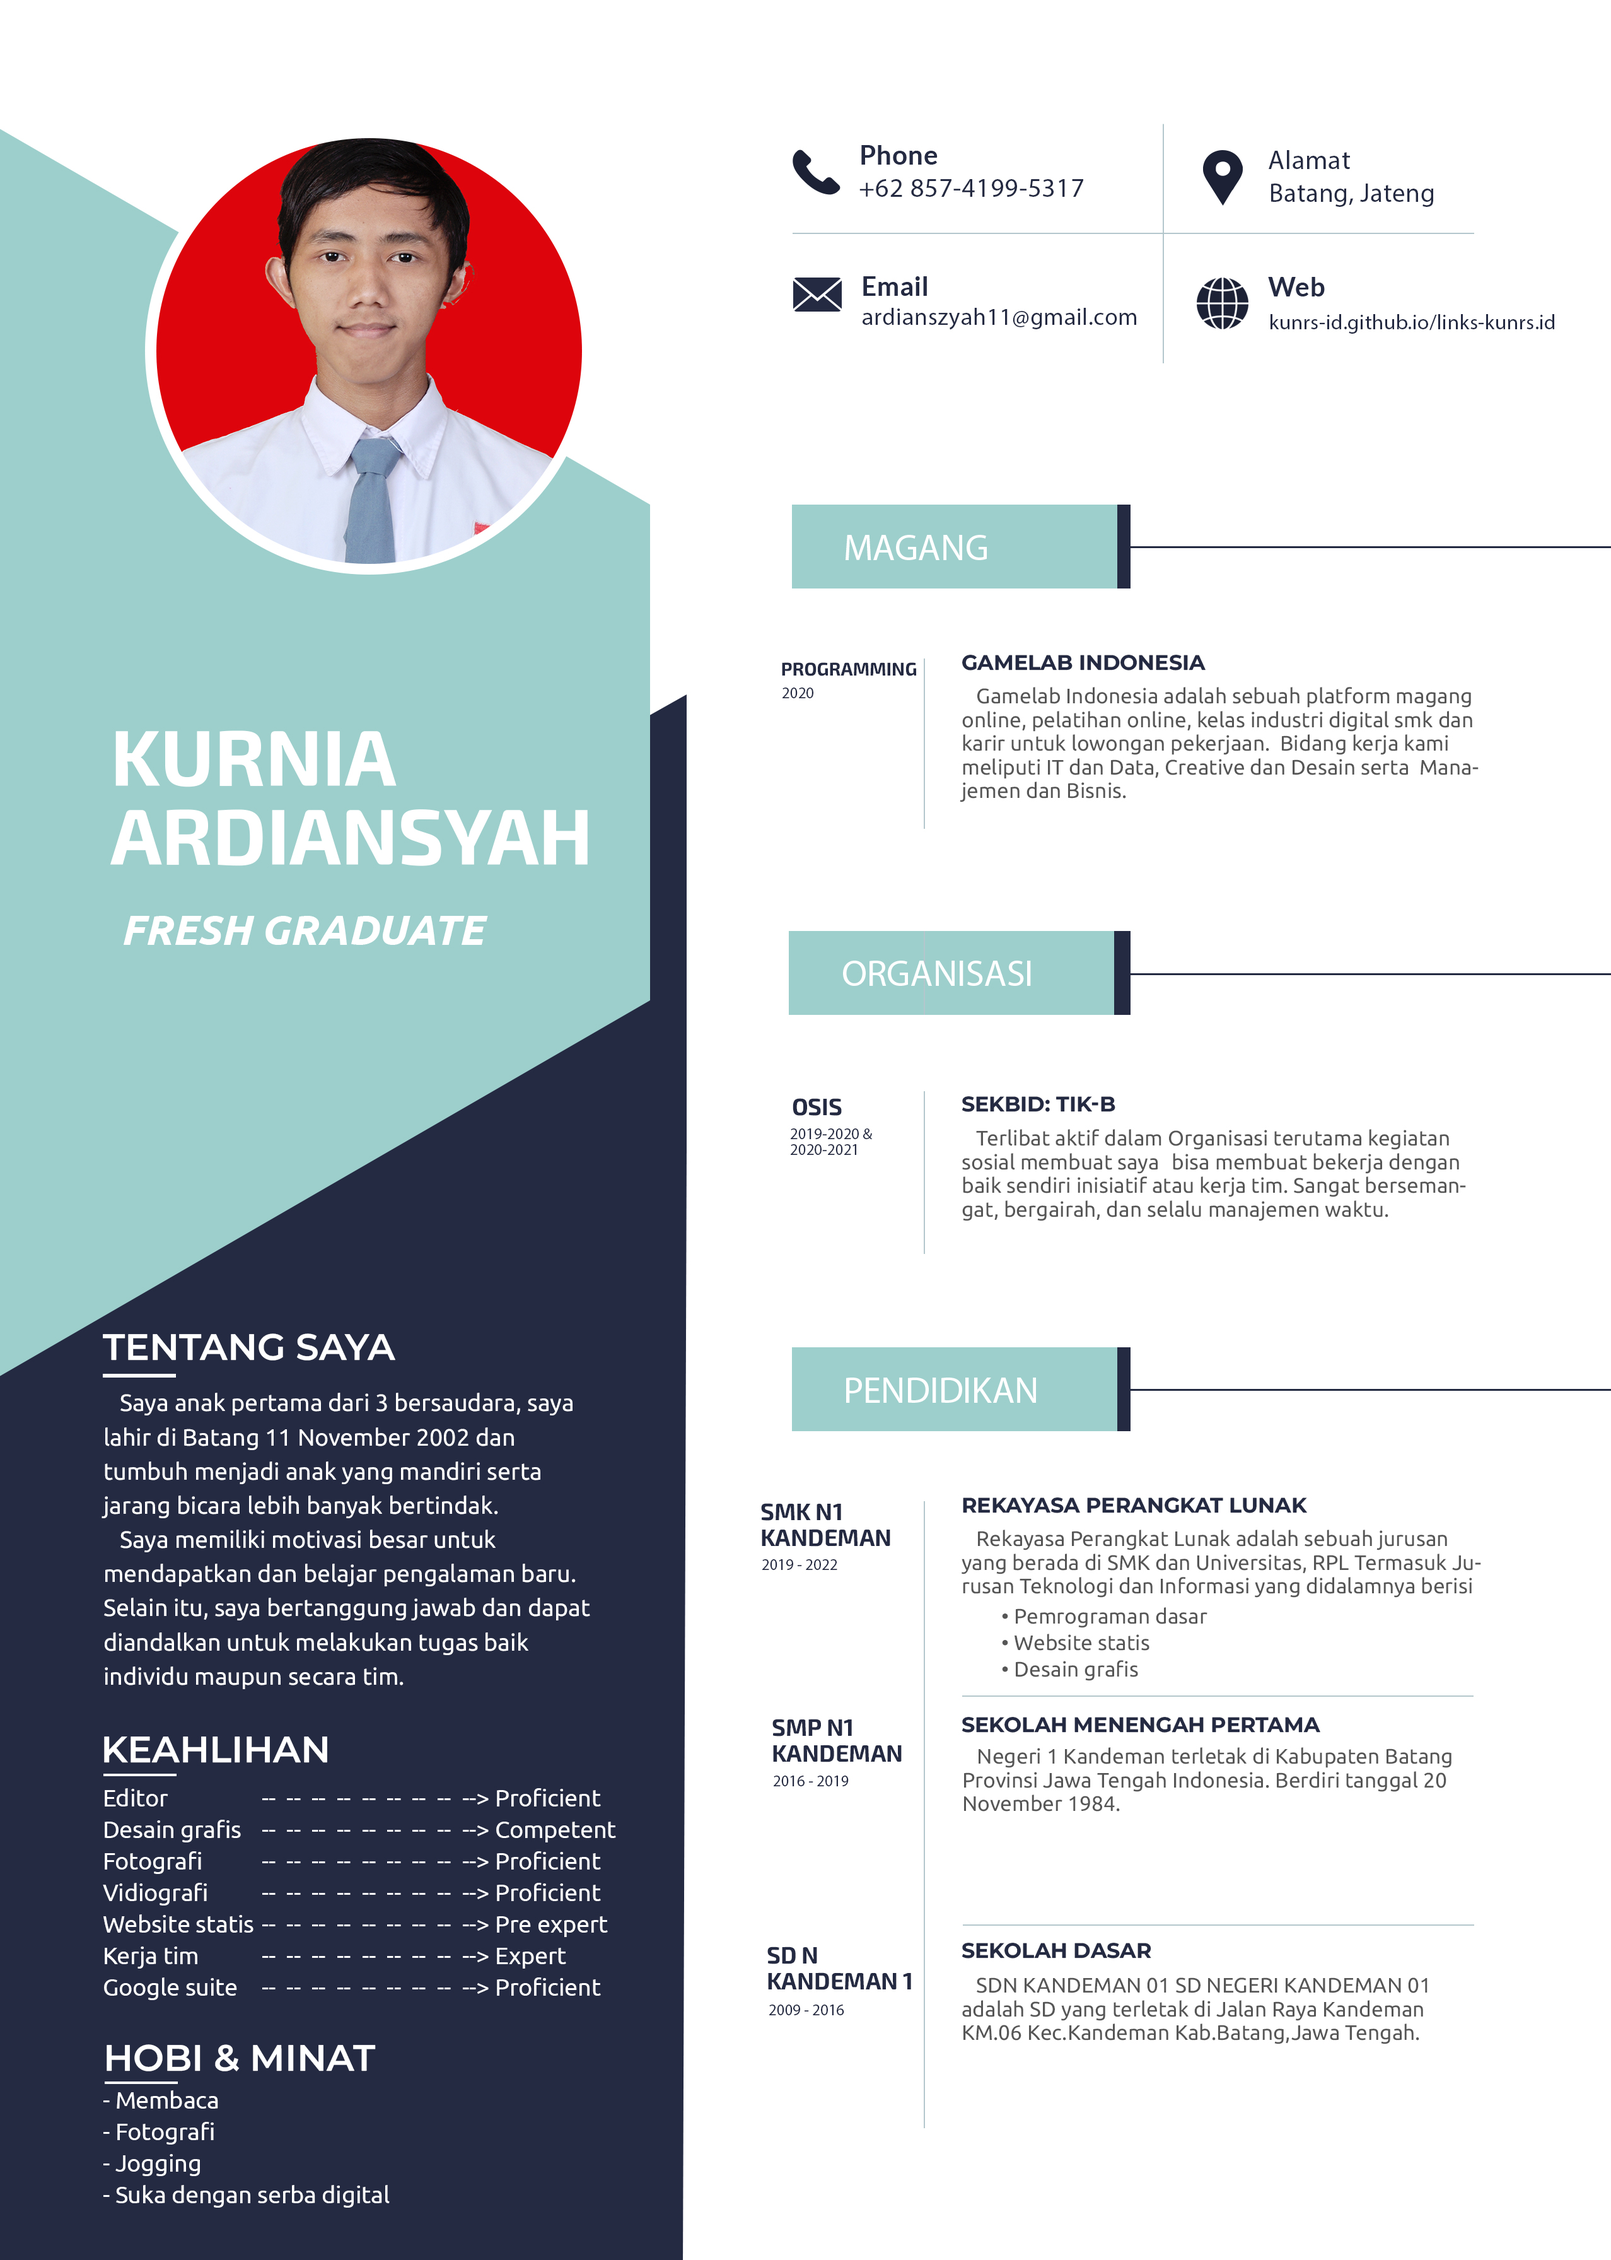
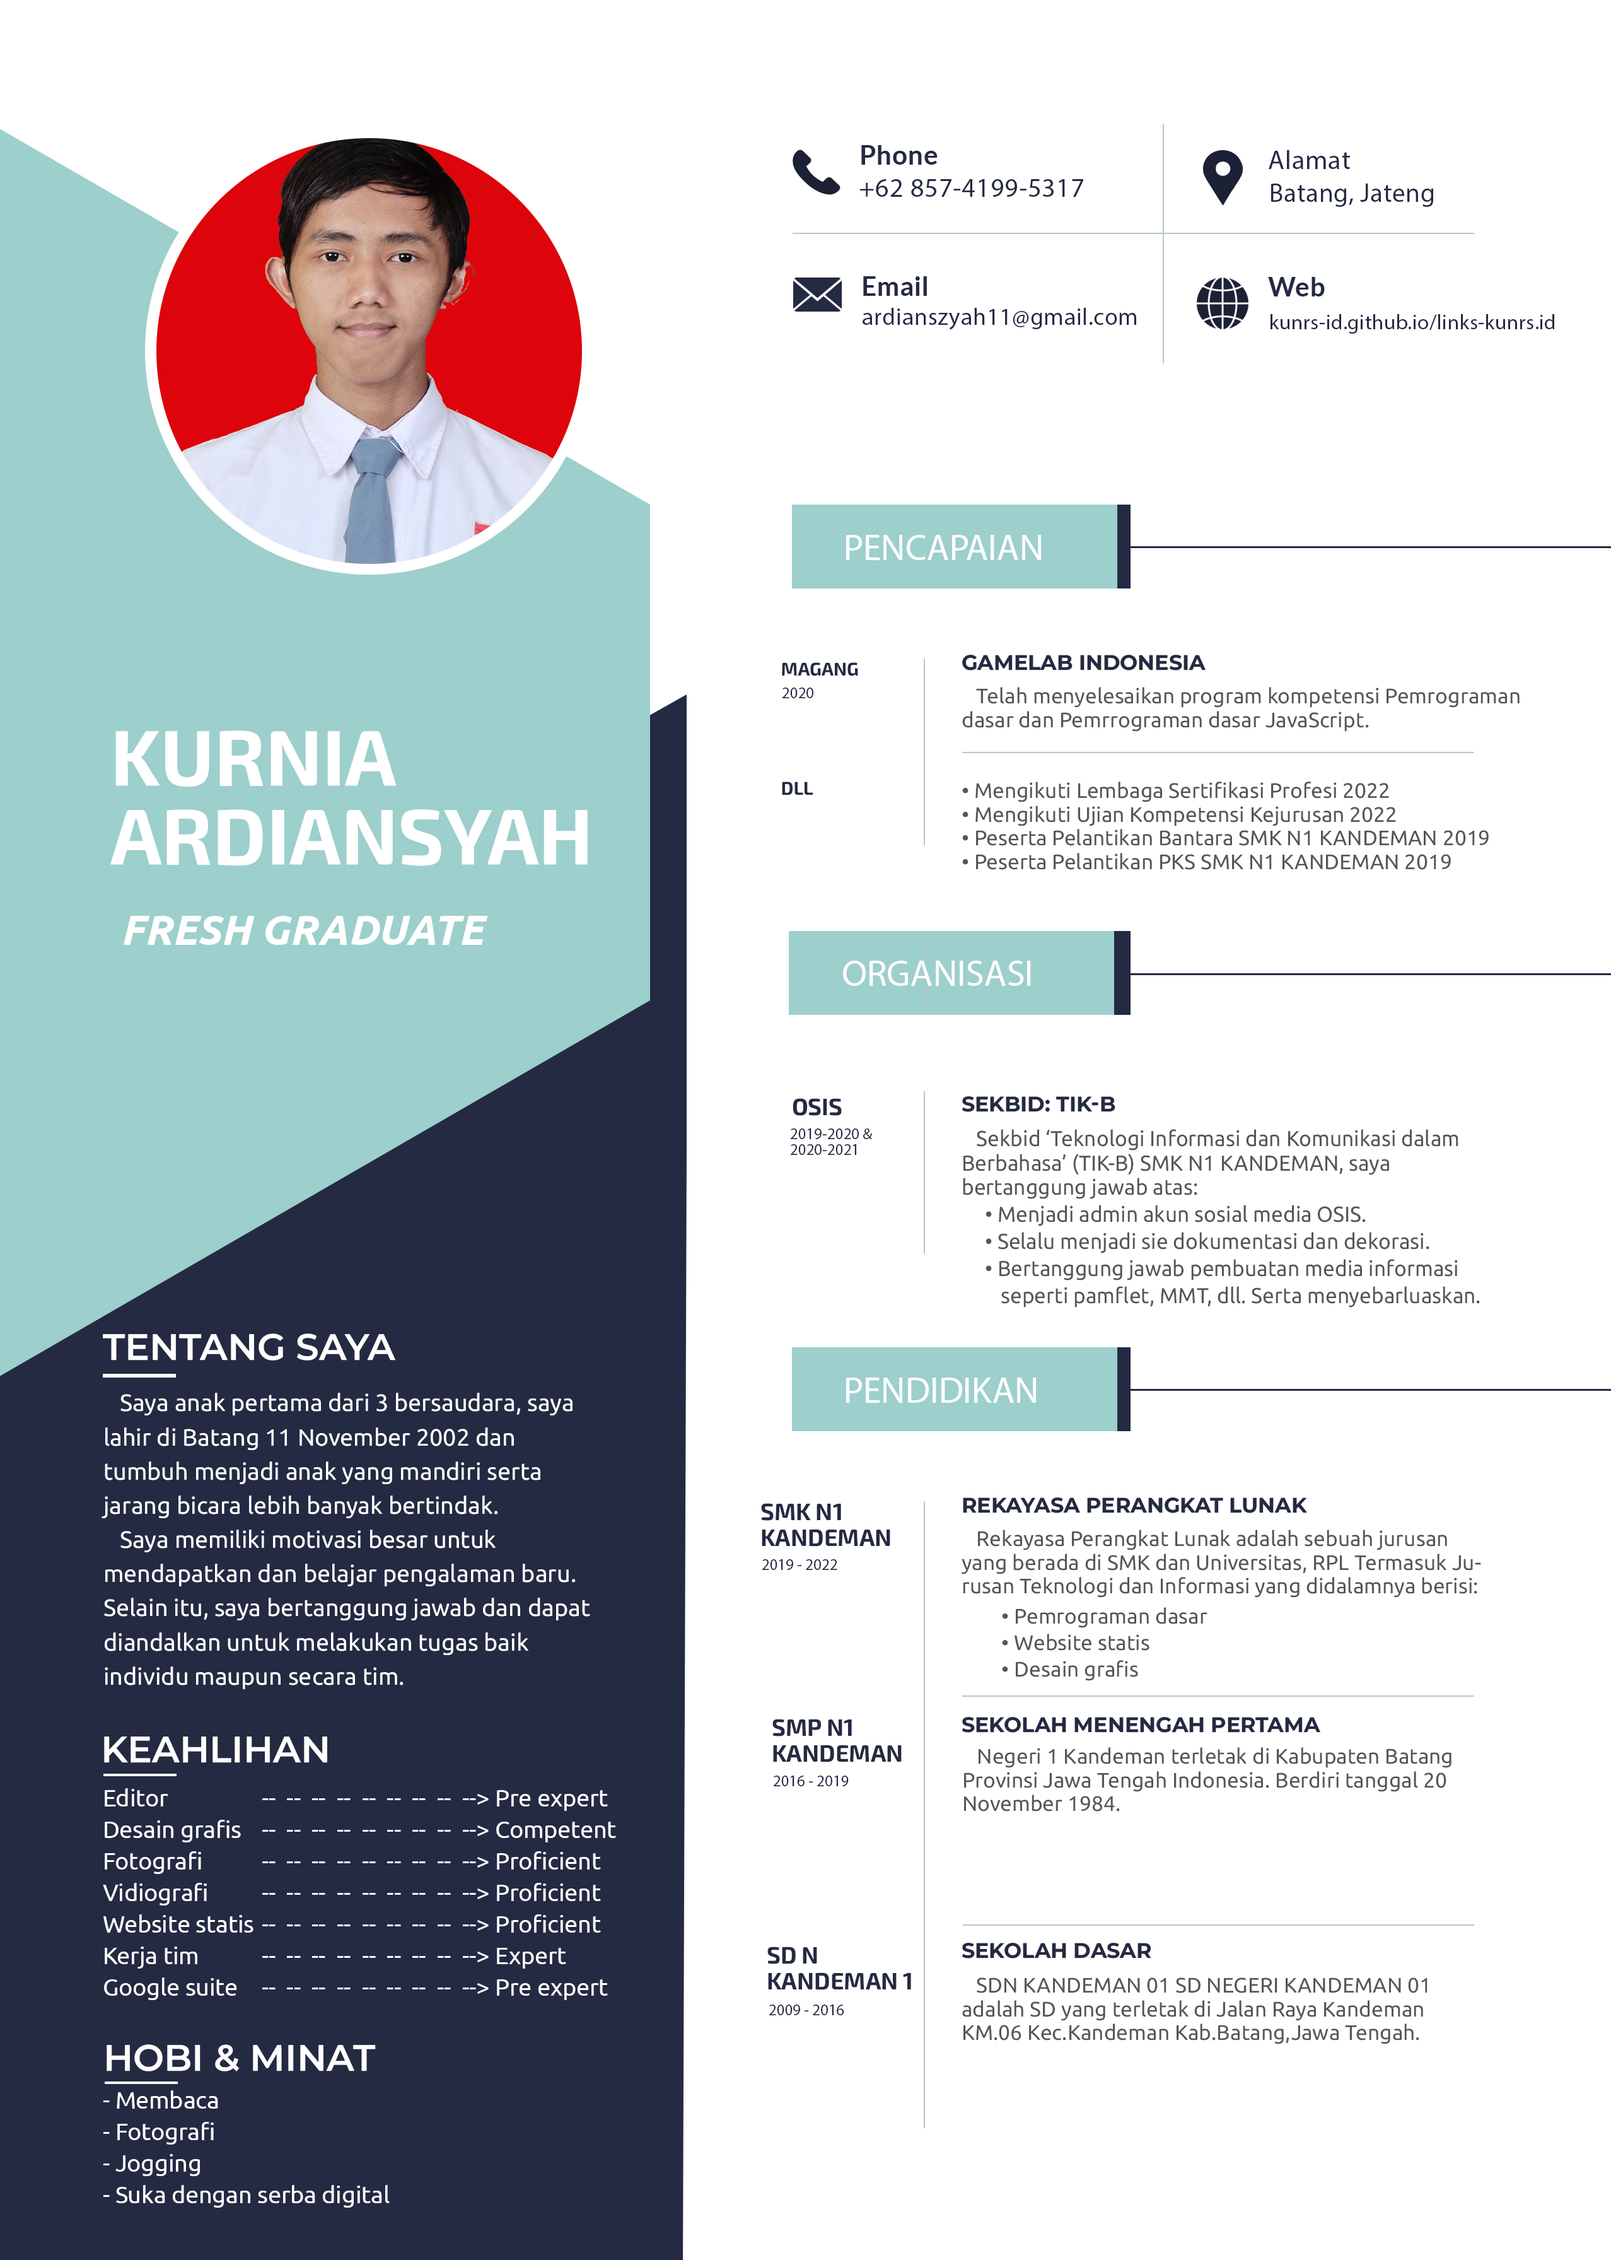
update v1.9.2

diff --git a/home.html b/home.html
@@ -1,5 +1,5 @@
 <!DOCTYPE html>
-<html lang="en">
+<html lang="id">
 
 <head>
   <meta charset="utf-8">
@@ -76,14 +76,14 @@
                 <ul>
                   <li><i class="bi bi-chevron-right"></i> <strong>TTL:</strong> <span>Batang, 11 November 2002</span></li>
                   <li><i class="bi bi-chevron-right"></i> <strong>Jenis kelamin:</strong> <span>Laki-laki</span></li>
-                  <li><i class="bi bi-chevron-right"></i> <strong>Kota:</strong> <span>Batang, Jawah tengah, Indonesia</span></li>
+                  <li><i class="bi bi-chevron-right"></i> <strong>Kota:</strong> <span>Batang, Jateng</span></li>
                 </ul>
               </div>
               <div class="col-lg-6">
                 <ul>
                   <li><i class="bi bi-chevron-right"></i> <strong>Status:</strong> <span>Belum menikah</span></li>
                   <li><i class="bi bi-chevron-right"></i> <strong>Agama:</strong> <span>Islam</span></li>
-                  <li><i class="bi bi-chevron-right"></i> <strong>Pekerjaan:</strong> <span>Pelajar</span></li>
+                  <li><i class="bi bi-chevron-right"></i> <strong>Pekerjaan:</strong> <span>--- (Fresh graduate)</span></li>
                 </ul>
               </div>
             </div>
@@ -140,7 +140,7 @@
         <div class="row skills-content">
           <div class="col-lg-6" data-aos="fade-up">
             <div class="progress">
-              <span class="skill">Editor <i class="val">Proficient</i></span>
+              <span class="skill">Editor <i class="val">Pre expert</i></span>
               <div class="progress-bar-wrap">
                 <div class="progress-bar" role="progressbar" aria-valuenow="100" aria-valuemin="0" aria-valuemax="100"></div>
               </div>
@@ -152,7 +152,7 @@
               </div>
             </div>
             <div class="progress">
-              <span class="skill">Fotografi<i class="val">Proficient</i></span>
+              <span class="skill">Fotografi &amp; Videografi<i class="val">Proficient</i></span>
               <div class="progress-bar-wrap">
                 <div class="progress-bar" role="progressbar" aria-valuenow="100" aria-valuemin="0" aria-valuemax="100"></div>
               </div>
@@ -160,13 +160,13 @@
           </div>
           <div class="col-lg-6" data-aos="fade-up" data-aos-delay="100">
             <div class="progress">
-              <span class="skill">Website statis<i class="val">Pre expert</i></span>
+              <span class="skill">Website statis<i class="val">Proficient</i></span>
               <div class="progress-bar-wrap">
                 <div class="progress-bar" role="progressbar" aria-valuenow="100" aria-valuemin="0" aria-valuemax="100"></div>
               </div>
             </div>
             <div class="progress">
-              <span class="skill">Google suite<i class="val">Proficient</i></span>
+              <span class="skill">Google suite<i class="val">Pre expert</i></span>
               <div class="progress-bar-wrap">
                 <div class="progress-bar" role="progressbar" aria-valuenow="100" aria-valuemin="0" aria-valuemax="100"></div>
               </div>
@@ -193,7 +193,7 @@
             <div class="resume-item pb-0">
               <h4>Gamelab</h4>
               <h5>2020</h5>
-              <p><em>&nbsp;&nbsp;&nbsp;Gamelab Indonesia adalah sebuah platform magang online, pelatinan online, kelas industri digital smk dan karir untuk lowongan pekerjaan. Bidang kerja kami meliputi IT dan Data, Creative dan Desain serta Manajemen dan Bisnis.</em></p>
+              <p><em>&nbsp;&nbsp;&nbsp;Gamelab Indonesia adalah sebuah platform magang online, pelatinan online, kelas industri digital smk dan karir untuk lowongan pekerjaan. Bidang kerja kami meliputi IT dan Data, Creative dan Desain serta Manajemen dan Bisnis.Telah menyelesaikan program kompetensi berikut ini:</em></p>
               <ul>
                 <li>Pemrograman dasar</li>
                 <li>Pemrrograman dasar JavaScript</li>
@@ -203,11 +203,12 @@
             <h3 class="resume-title">Pengalaman Organisasi</h3>
             <div class="resume-item pb-0">
               <h4>OSIS</h4>
-              <p><em>&nbsp;&nbsp;&nbsp;Terlibat aktif dalam Organisasi terutama kegiatan sosial membuat saya bisa bekerja dengan baik sendiri inisiatif atau kerja tim. Sangat bersemangat, bergairah, dan selalu manajemen waktu.</em></p>
+              <h5>2019-2020 &amp; 2020-2021</h5>
+              <p><em>&nbsp;&nbsp;&nbsp;Terlibat aktif dalam Organisasi terutama kegiatan sosial membuat saya bisa bekerja dengan baik sendiri inisiatif atau kerja tim. Sangat bersemangat, bergairah, dan selalu manajemen waktu. Saya menjabat sebagai Sekbid &apos;Teknologi Informasi dan Komunikasi dalam Berbahasa&apos; (TIK-B) SMK N1 KANDEMAN, saya              bertanggung jawab atas:</em></p>
               <ul>
-                <li>SMK N1 KANDEMAN</li>
-                <li>2019/2020 &amp; 2020/2021</li>
-                <li>SEKSI BIDANG 9: Teknologi Informasi dan Komunikasi dalam Berbahasa</li>
+                <li>Menjadi admin akun sosial media OSIS.</li>
+                <li>Selalu menjadi sie dokumentasi dan dekorasi.</li>
+                <li>Bertanggung jawab pembuatan media informasi seperti pamflet, MMT, dll. Serta menyebarluaskan.</li>
               </ul>
             </div>
             <h3 class="resume-title">Pendidikan</h3>
@@ -215,7 +216,12 @@
               <h4>SMK N1 KANDEMAN</h4>
               <h5>2019 - 2022</h5>
               <p><em>Rekayasa Perangkat Lunak, RPL</em></p>
-              <p>&nbsp;&nbsp;&nbsp;Rekayasa Perangkat Lunak adalah sebuah jurusan yang berada di SMK dan Universitas, RPL Termasuk Jurusan Teknologi dan Informasi yang didalamnya berisi banyak Pelajaran pelajaran yang berbasis Teknologi.</p>
+              <p>&nbsp;&nbsp;&nbsp;Rekayasa Perangkat Lunak adalah sebuah jurusan yang berada di SMK dan Universitas, RPL Termasuk Jurusan Teknologi dan Informasi yang didalamnya berisi banyak Pelajaran pelajaran yang berbasis Teknologi antara lain:</p>
+              <ul>
+                <li>Pemrograman dasar</li>
+                <li>Website statis</li>
+                <li>Desain grafis</li>
+              </ul>
             </div>
             <div class="resume-item">
               <h4>SMP N1 KANDEMAN</h4>
@@ -229,7 +235,25 @@
               <p><em>Sekolah Dasar</em></p>
               <p>&nbsp;&nbsp;&nbsp;SD NEGERI KANDEMAN 01 adalah SD yang terletak di Jalan Raya Kandeman KM. 06 Kec.Kandeman Kab.Batang, Jawa Tengah.</p>
             </div>
-          </div>
+          </div>          
+          <h3 class="resume-title">Hobi &amp; Minat</h3>
+            <div class="resume-item">              
+              <ul>
+                <li>Membaca</li>
+                <li>Jogging</li>
+                <li>Fotografi</li>
+                <li>Suka denga yang serba digital</li>
+              </ul>
+            </div>
+          <h3 class="resume-title">DLL</h3>
+            <div class="resume-item">              
+              <ul>
+                <li>Mengikuti Lembaga Sertifikasi Profesi 2022</li>
+                <li>Mengikuti Ujian Kompetensi Kejurusan 2022</li>
+                <li>Peserta Pelantikan PKS SMK N1 KANDEMAN 2019</li>
+                <li>Peserta Pelantikan Bantara SMK N1 KANDEMAN 2019</li>
+              </ul>
+            </div>
           <!-- <div class="col-lg-6" data-aos="fade-up" data-aos-delay="100">
             <h3 class="resume-title">Professional Experience</h3>
             <div class="resume-item">
@@ -266,7 +290,7 @@
 
         <div class="section-title">
           <h2>Galeri</h2>
-          <p>Beberapa galeri saya selama mengeyam pendidikan formal, <i id="info">klik foto untuk info lanjut</i>.</p>
+          <p>Beberapa galeri saya selama mengeyam pendidikan formal,  <span class="danger"><i id="info">&nbsp;klik foto untuk info lanjut.&nbsp;&nbsp;</i></span></p>
         </div>
 
         <div class="row" data-aos="fade-up">
@@ -518,7 +542,7 @@
               <div class="address">
                 <i class="bi bi-geo-alt"></i>
                 <h4>Alamat:</h4>
-                <p>&nbsp;&nbsp;&nbsp;GG.67, Dk. Kaliongkek RT3/RW4,Ds. Kandeman, Kec. Kandeman, Kab Batang, Jawa Tengah 51261</p>
+                <p>&nbsp;&nbsp;&nbsp;Dk. Johosari RT2/RW5, Ds. Kandeman, Kec. Kandeman, Kab. Batang, Jateng 51261</p>
               </div>
               <div class="email">
                 <i class="bi bi-envelope"></i>

diff --git a/assets/css/style.css b/assets/css/style.css
@@ -1072,3 +1072,8 @@ section {
     padding-right: 20px 15px;
   }
 }
+
+.danger {
+  background-color: #FFDDDD;
+  border-left: 6px solid #F44336;
+}
